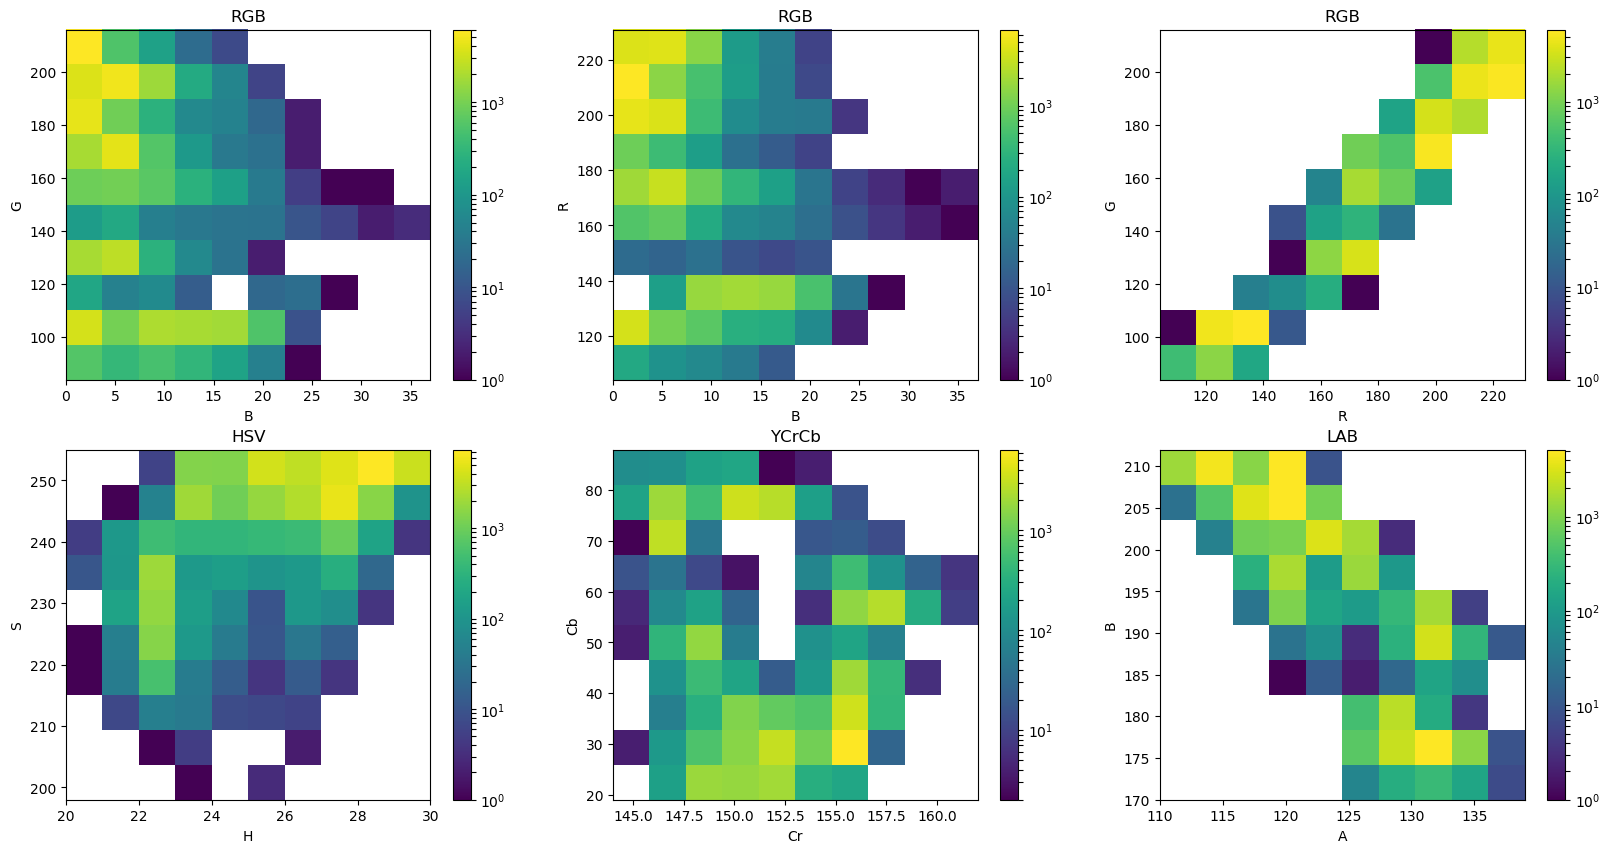
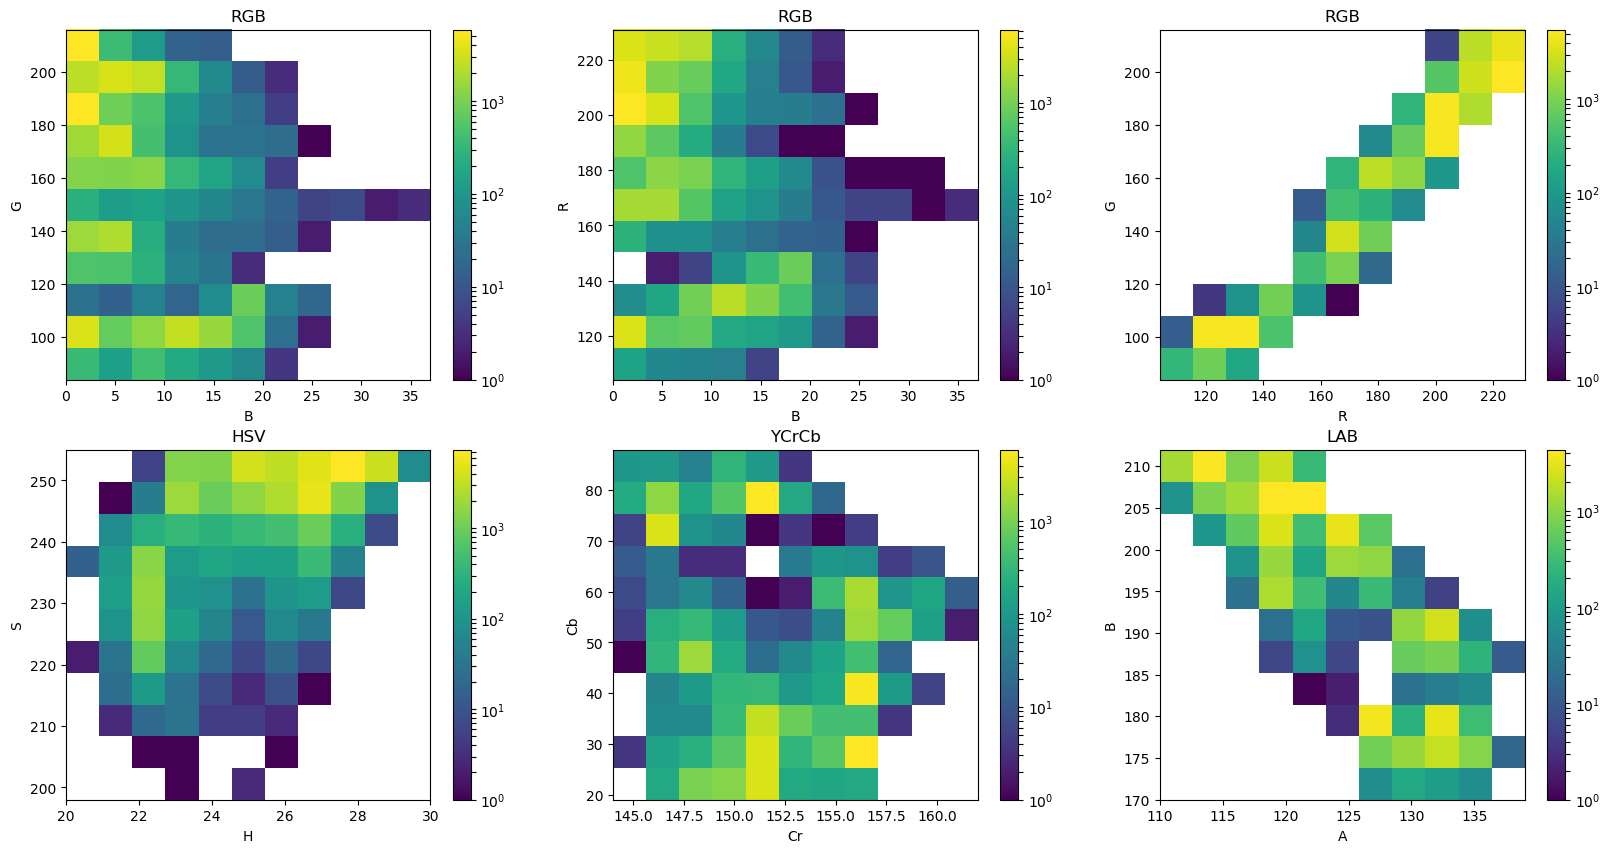
2017.12.10.15.57 understand all the code

diff --git a/OpenCVPython/OpenCVTest.py b/OpenCVPython/OpenCVTest.py
@@ -1,0 +1,13 @@
+from matplotlib.colors import LogNorm
+import matplotlib.pyplot as plt
+import numpy as np
+
+# normal distribution center at x=0 and y=5
+#x = np.random.randn(100000)
+#y = np.random.randn(100000) + 10
+x = [1, 2, 3, 2]
+y = [1, 2, 3, 2]
+
+plt.hist2d(x, y, bins=40, norm=LogNorm())
+plt.colorbar()
+plt.show()

diff --git a/OpenCVPython/dataAnalysis.py b/OpenCVPython/dataAnalysis.py
@@ -75,7 +75,7 @@ for fi in files[:]:
     
     
 # Plotting the histogram
-nbins = 10
+nbins = 11
 plt.figure(figsize=[20,10])
 plt.subplot(2,3,1)
 plt.hist2d(B, G, bins=nbins, norm=LogNorm())
